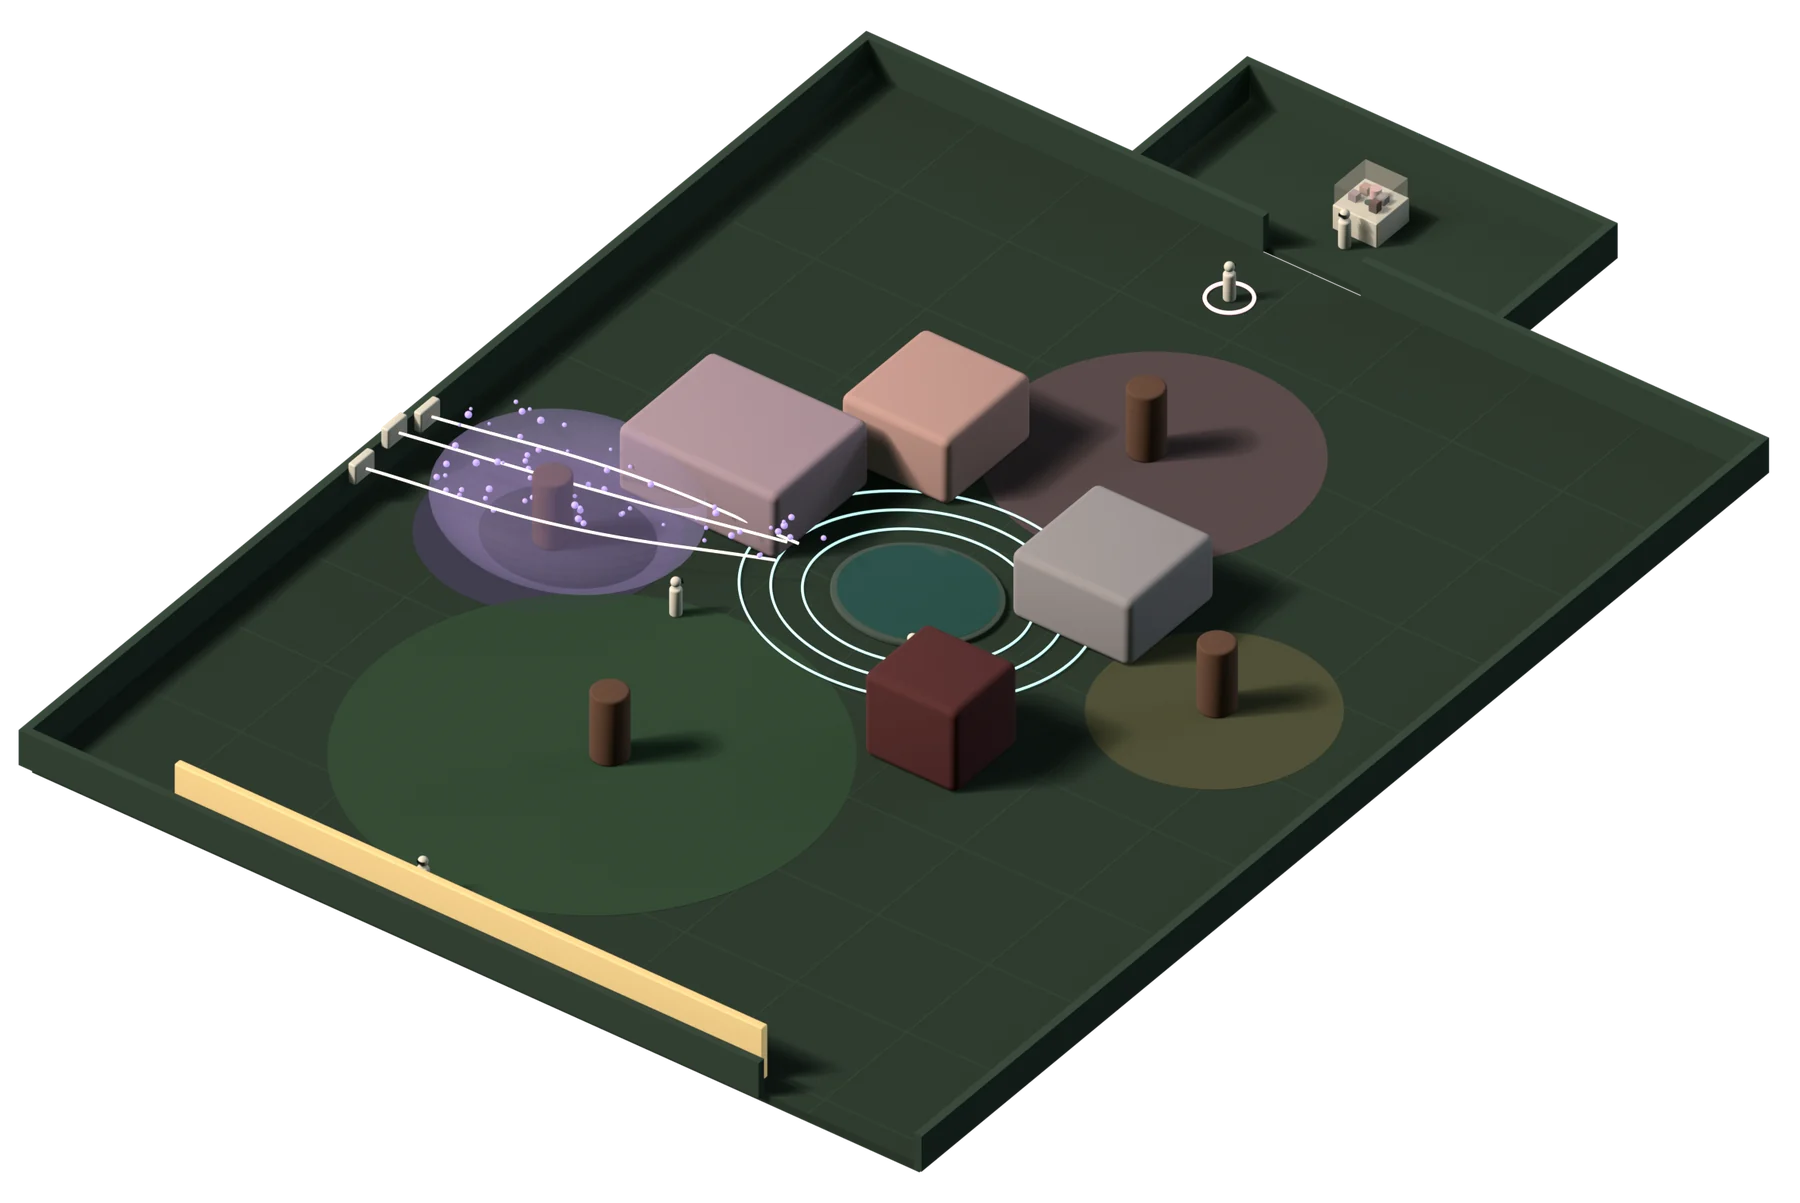
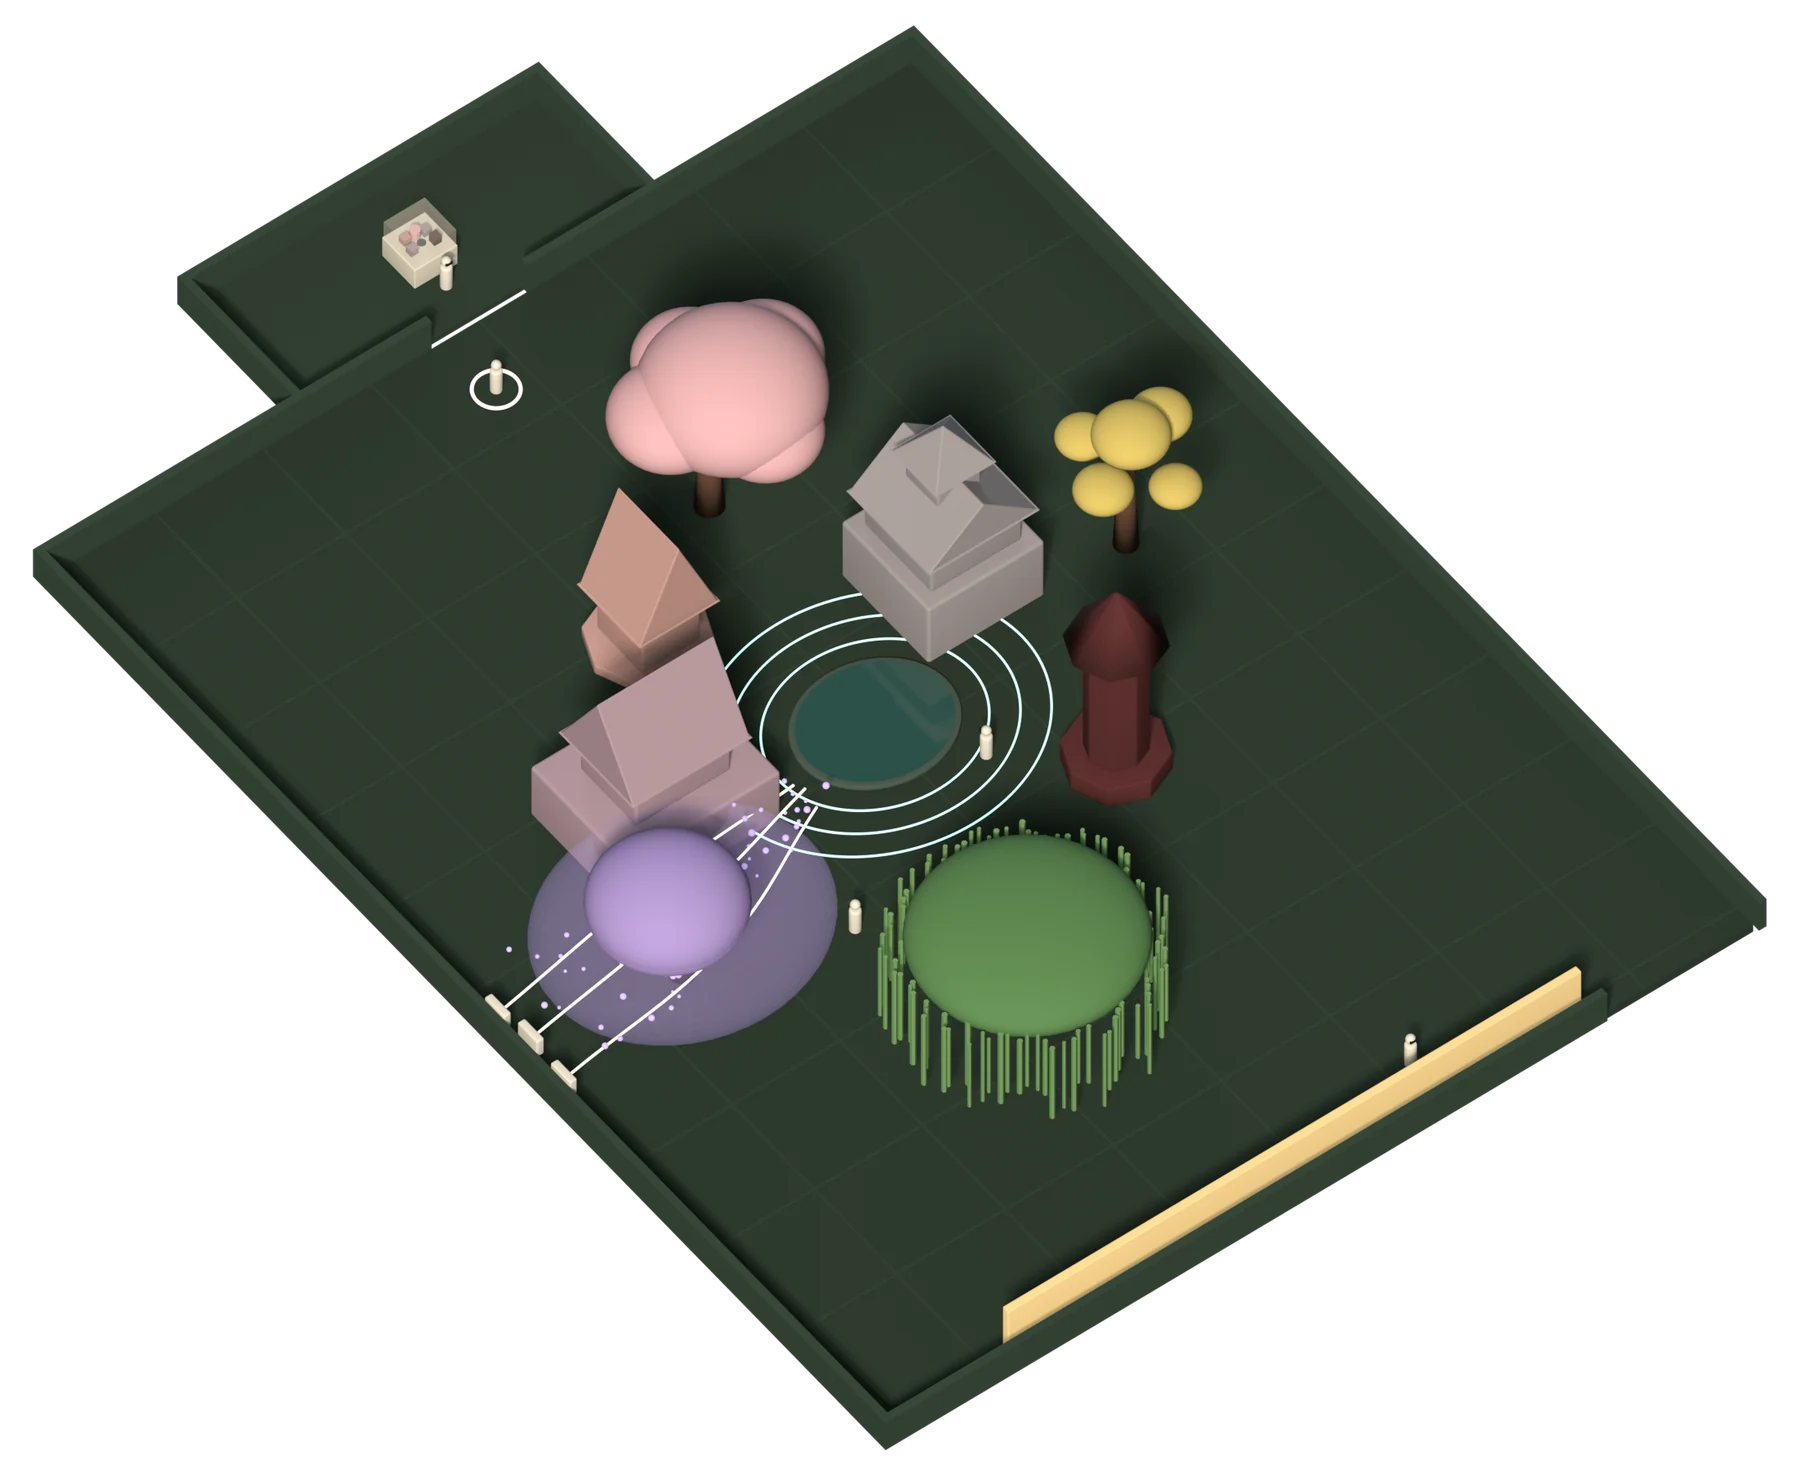
Where We Rest: the XR room's foam pieces take the houses' and trees' shapes
The Blender view now models each house simply (the Elf House A-frame on
its octagonal deck, the Gnome House's two floors and tall roof, the
Garden Magic House with its clock tower, the red tower's shaft and
pointed cap) and each tree (cherry crown, weeping willow with hanging
shoots, the yellow tree's pom-poms, the lavender crown). The camera
moves to the front-left corner and looks down more steeply so the
start point and pond stay clear; pins and copy follow.

diff --git a/case-studies/where-we-rest.html b/case-studies/where-we-rest.html
@@ -1782,22 +1782,22 @@
       <div class="cs-section__body">
         <div class="cs-section__copy">
           <p class="cs-lead">I imagine Where We Rest as an XR pop-up in Chicago: one huge room where the Vision Pro garden and the real one meet.</p>
-          <p>The miniature waits at the entrance. Inside, soft foam blocks stand exactly where the houses and trees are in the headset, so what you see, you can touch. By the lavender tree and the pond, scent, a breeze and sound make it feel alive.</p>
+          <p>The miniature waits at the entrance. Inside, soft foam shapes of the houses and trees stand exactly where they are in the headset, so what you see, you can touch. By the lavender tree and the pond, scent, a breeze and sound make it feel alive.</p>
         </div>
         <figure class="wwr-plan">
           <div class="wwr-plan__drawing">
-            <img src="../WhereWeRest/feature/xr-room.webp" width="1800" height="1203" decoding="async" alt="A 3D view of the imagined XR room: a lobby with the sculpture under glass leads into one large room laid out like the 3D garden, with foam blocks in the houses' colours, tree trunks, the koi pond ringed with sound, a breeze carrying lavender scent from fans by the purple tree, small visitors for scale and a gold tribute wall by the exit." />
-            <span class="wwr-plan__pin" style="left: 76.17%; top: 14.00%" aria-hidden="true">1</span>
-            <span class="wwr-plan__pin" style="left: 68.31%; top: 20.90%" aria-hidden="true">2</span>
-            <span class="wwr-plan__pin" style="left: 41.30%; top: 34.41%" aria-hidden="true">3</span>
-            <span class="wwr-plan__pin" style="left: 31.55%; top: 38.44%" aria-hidden="true">4</span>
-            <span class="wwr-plan__pin" style="left: 51.02%; top: 47.93%" aria-hidden="true">5</span>
-            <span class="wwr-plan__pin" style="left: 25.84%; top: 73.04%" aria-hidden="true">6</span>
+            <img src="../WhereWeRest/feature/xr-room.webp" width="1800" height="1469" decoding="async" alt="A 3D view of the imagined XR room: a lobby with the sculpture under glass leads into one large room laid out like the 3D garden, with simple foam shapes of the four houses and four trees in their colours, the koi pond ringed with sound, a breeze carrying lavender scent from fans by the purple tree, small visitors for scale and a gold tribute wall by the exit." />
+            <span class="wwr-plan__pin" style="left: 23.33%; top: 14.67%" aria-hidden="true">1</span>
+            <span class="wwr-plan__pin" style="left: 27.57%; top: 24.04%" aria-hidden="true">2</span>
+            <span class="wwr-plan__pin" style="left: 36.41%; top: 44.71%" aria-hidden="true">3</span>
+            <span class="wwr-plan__pin" style="left: 37.09%; top: 58.47%" aria-hidden="true">4</span>
+            <span class="wwr-plan__pin" style="left: 48.61%; top: 48.27%" aria-hidden="true">5</span>
+            <span class="wwr-plan__pin" style="left: 71.50%; top: 77.08%" aria-hidden="true">6</span>
           </div>
           <ol class="wwr-plan__key">
             <li><strong>The real sculpture</strong>under glass in the lobby, lit like the studio window.</li>
             <li><strong>Headset on</strong>under the cherry tree, where the web garden begins.</li>
-            <li><strong>Foam blocks</strong>built to each house and trunk in the 3D garden, in the houses' colours.</li>
+            <li><strong>Foam houses and trees</strong>in their simple shapes and colours, placed just as in the 3D garden.</li>
             <li><strong>Lavender on the breeze</strong>from fans by the purple tree, drifting toward the pond.</li>
             <li><strong>Water and birdsong</strong>at the koi pond, with the soft piano from the garden.</li>
             <li><strong>A tribute wall</strong>on the way out.</li>
